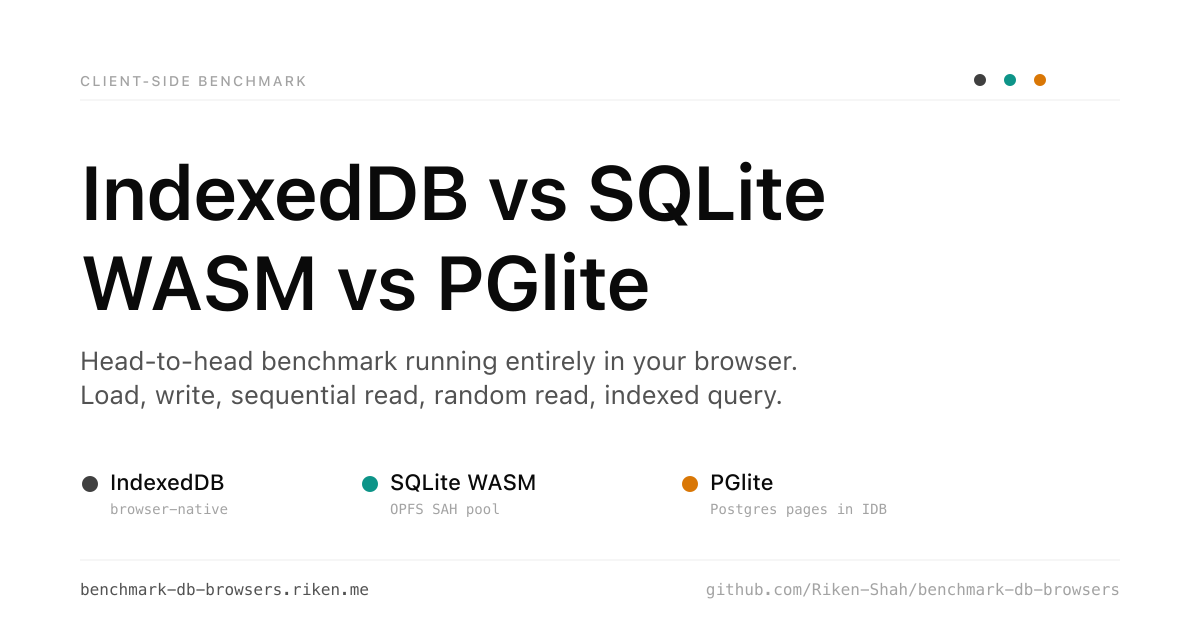
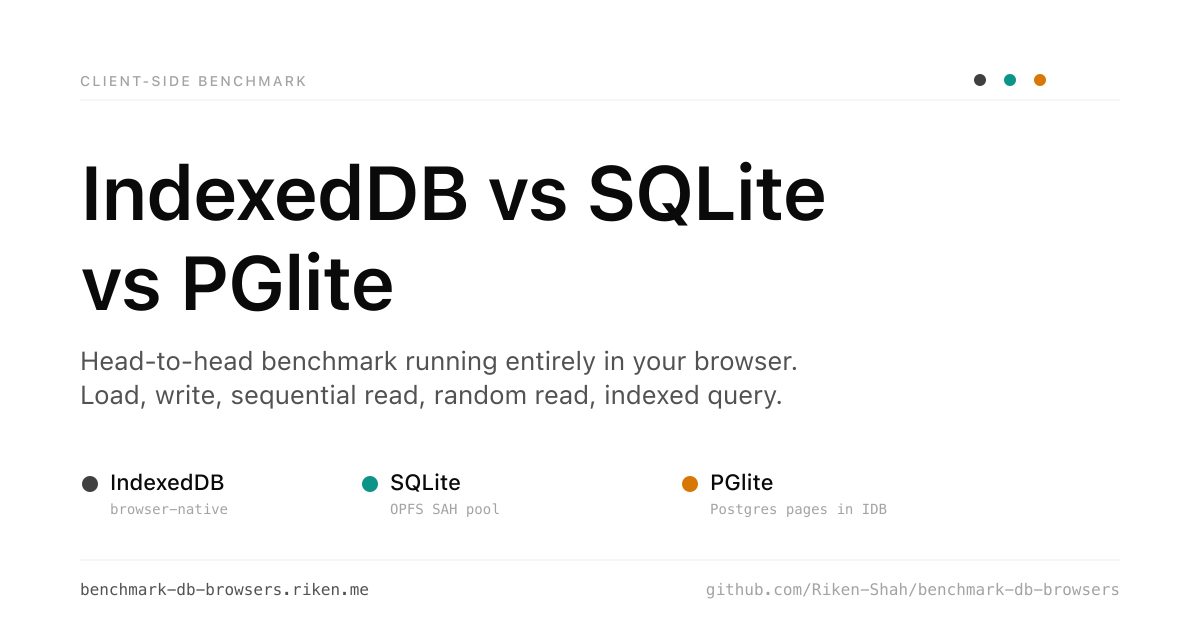
Rename SQLite WASM to SQLite, reactive storage labels, GH Actions workflow
- Drop "WASM" from page title, og:image, og:title, twitter:title, legend chip, README
- Rebuild og.png (1200x630) with updated title
- Storage labels in legend now switch with mode toggle (persistent vs in-memory)
  - In-memory: IndexedDB shows "n/a", SQLite shows ":memory:", PGlite shows "memory://"
- Reduce PROBE_COUNT from 200 to 100 so PGlite random reads finish in reasonable time
- Add .github/workflows/deploy.yml for auto-deploy on push (Cloudflare Pages via wrangler-action)

Changed region(s): [[0.0617, 0.3921, 0.555, 0.5127], [0.37, 0.754, 0.4625, 0.7841]]

diff --git a/index.html b/index.html
@@ -3,23 +3,23 @@
 <head>
 <meta charset="utf-8" />
 <meta name="viewport" content="width=device-width,initial-scale=1" />
-<title>Client-side DB Benchmark: IndexedDB vs SQLite WASM vs PGlite</title>
+<title>Client-side DB Benchmark: IndexedDB vs SQLite vs PGlite</title>
 <meta name="description" content="Head-to-head benchmark of IndexedDB, SQLite WASM, and PGlite running entirely in your browser. Load, write, sequential read, random read, indexed query.">
 <meta name="theme-color" content="#ffffff">
 <link rel="canonical" href="https://benchmark-db-browsers.riken.me/">
 
 <meta property="og:type" content="website">
 <meta property="og:site_name" content="Client-side DB Benchmark">
-<meta property="og:title" content="Client-side DB Benchmark: IndexedDB vs SQLite WASM vs PGlite">
+<meta property="og:title" content="Client-side DB Benchmark: IndexedDB vs SQLite vs PGlite">
 <meta property="og:description" content="Head-to-head benchmark of IndexedDB, SQLite WASM, and PGlite running entirely in your browser.">
 <meta property="og:url" content="https://benchmark-db-browsers.riken.me/">
 <meta property="og:image" content="https://benchmark-db-browsers.riken.me/og.png">
 <meta property="og:image:width" content="1200">
 <meta property="og:image:height" content="630">
-<meta property="og:image:alt" content="Client-side DB Benchmark: IndexedDB vs SQLite WASM vs PGlite">
+<meta property="og:image:alt" content="Client-side DB Benchmark: IndexedDB vs SQLite vs PGlite">
 
 <meta name="twitter:card" content="summary_large_image">
-<meta name="twitter:title" content="Client-side DB Benchmark: IndexedDB vs SQLite WASM vs PGlite">
+<meta name="twitter:title" content="Client-side DB Benchmark: IndexedDB vs SQLite vs PGlite">
 <meta name="twitter:description" content="Head-to-head benchmark of IndexedDB, SQLite WASM, and PGlite running entirely in your browser.">
 <meta name="twitter:image" content="https://benchmark-db-browsers.riken.me/og.png">
 
@@ -109,6 +109,8 @@
     font-size: 11px;
     margin-left: 2px;
   }
+  .legend .eng.disabled { opacity: 0.45; }
+  .legend .eng.disabled .store { font-style: italic; }
 
   .controls {
     display: flex;
@@ -347,9 +349,9 @@
     <p class="sub">A head-to-head comparison of IndexedDB, SQLite WASM, and PGlite running entirely in your browser. One warmup run, three timed runs, median reported.</p>
     <div class="meta">
       <div class="legend">
-        <span class="eng"><i style="background:var(--idb)"></i> IndexedDB <span class="store">browser-native</span></span>
-        <span class="eng"><i style="background:var(--sqlite)"></i> SQLite WASM <span class="store">OPFS · SAH pool</span></span>
-        <span class="eng"><i style="background:var(--pglite)"></i> PGlite <span class="store">Postgres pages in IndexedDB</span></span>
+        <span class="eng" id="eng-idb"><i style="background:var(--idb)"></i> IndexedDB <span class="store" id="store-idb">browser-native</span></span>
+        <span class="eng" id="eng-sqlite"><i style="background:var(--sqlite)"></i> SQLite <span class="store" id="store-sqlite">OPFS · SAH pool</span></span>
+        <span class="eng" id="eng-pglite"><i style="background:var(--pglite)"></i> PGlite <span class="store" id="store-pglite">Postgres pages in IndexedDB</span></span>
       </div>
       <div class="env" id="env">detecting environment…</div>
     </div>
@@ -413,7 +415,7 @@
         <div class="head">
           <div>
             <h3>Random point read</h3>
-            <p class="desc">200 lookups by random primary key. Higher is better.</p>
+            <p class="desc">100 lookups by random primary key. Higher is better.</p>
           </div>
           <div class="unit">reads / sec</div>
         </div>
@@ -424,7 +426,7 @@
         <div class="head">
           <div>
             <h3>Indexed query</h3>
-            <p class="desc">200 lookups by indexed email column. Higher is better.</p>
+            <p class="desc">100 lookups by indexed email column. Higher is better.</p>
           </div>
           <div class="unit">reads / sec</div>
         </div>

diff --git a/app.js b/app.js
@@ -9,7 +9,7 @@ const COLORS = {
   pglite: { line: '#d97706', fill: 'rgba(217,119,6,0.08)' },
 };
 
-const ENGINE_LABEL = { idb: 'IndexedDB', sqlite: 'SQLite WASM', pglite: 'PGlite' };
+const ENGINE_LABEL = { idb: 'IndexedDB', sqlite: 'SQLite', pglite: 'PGlite' };
 const OPS = ['init', 'write', 'readseq', 'randread', 'indexed'];
 const OP_LABEL = {
   init: 'Load & init (ms)',
@@ -21,7 +21,7 @@ const OP_LABEL = {
 
 const WARMUP = 1;
 const REPS = 3;
-const PROBE_COUNT = 200; // number of point / indexed lookups per measured run
+const PROBE_COUNT = 100; // number of point / indexed lookups per measured run
 
 // ---------- utilities ----------
 
@@ -767,6 +767,29 @@ function renderVersions(versions) {
   document.getElementById('versions').textContent = parts.join(' · ') || ' ';
 }
 
+// ---------- storage labels (mode-aware) ----------
+
+const STORAGE_LABELS = {
+  persistent: {
+    idb: 'browser-native',
+    sqlite: 'OPFS · SAH pool',
+    pglite: 'Postgres pages in IndexedDB',
+  },
+  memory: {
+    idb: 'n/a (persistent only)',
+    sqlite: ':memory:',
+    pglite: 'memory://',
+  },
+};
+function syncStorageLabels() {
+  const mode = document.querySelector('input[name="mode"]:checked').value;
+  for (const eng of ['idb', 'sqlite', 'pglite']) {
+    document.getElementById('store-' + eng).textContent = STORAGE_LABELS[mode][eng];
+    document.getElementById('eng-' + eng).classList.toggle('disabled', mode === 'memory' && eng === 'idb');
+  }
+}
+document.querySelectorAll('input[name="mode"]').forEach((r) => r.addEventListener('change', syncStorageLabels));
+
 // ---------- wire up ----------
 
 document.getElementById('run').addEventListener('click', runAll);
@@ -784,3 +807,4 @@ document.getElementById('reset').addEventListener('click', async () => {
 renderEnv();
 initCharts();
 setProgress(null);
+syncStorageLabels();

diff --git a/README.md b/README.md
@@ -1,6 +1,6 @@
 # Client-side database benchmark
 
-A head-to-head comparison of three browser-native databases (IndexedDB, SQLite WASM, and PGlite) running entirely in the browser, with no server, no build step, and no dependencies beyond CDN imports.
+A head-to-head comparison of three browser-native databases (IndexedDB, SQLite, and PGlite) running entirely in the browser, with no server, no build step, and no dependencies beyond CDN imports.
 
 **Live demo:** https://benchmark-db-browsers.riken.me
 
@@ -23,7 +23,7 @@ Each measurement runs **1 warmup pass + 3 timed passes**, reporting the median.
 | Engine | Persistent storage |
 |---|---|
 | IndexedDB | Browser-native (this *is* the storage) |
-| SQLite WASM | OPFS, via the **SAH (Sync Access Handle) Pool VFS**: Sync Access Handles in a dedicated worker, no SharedArrayBuffer required |
+| SQLite | OPFS, via the **SAH (Sync Access Handle) Pool VFS**: Sync Access Handles in a dedicated worker, no SharedArrayBuffer required |
 | PGlite | Real Postgres compiled to WASM. Pages stored in **IndexedDB** (`idb://` driver) |
 
 The "in-memory" toggle runs SQLite as `:memory:` and PGlite as `memory://`. IndexedDB has no in-memory mode and is shown as N/A in that mode.
